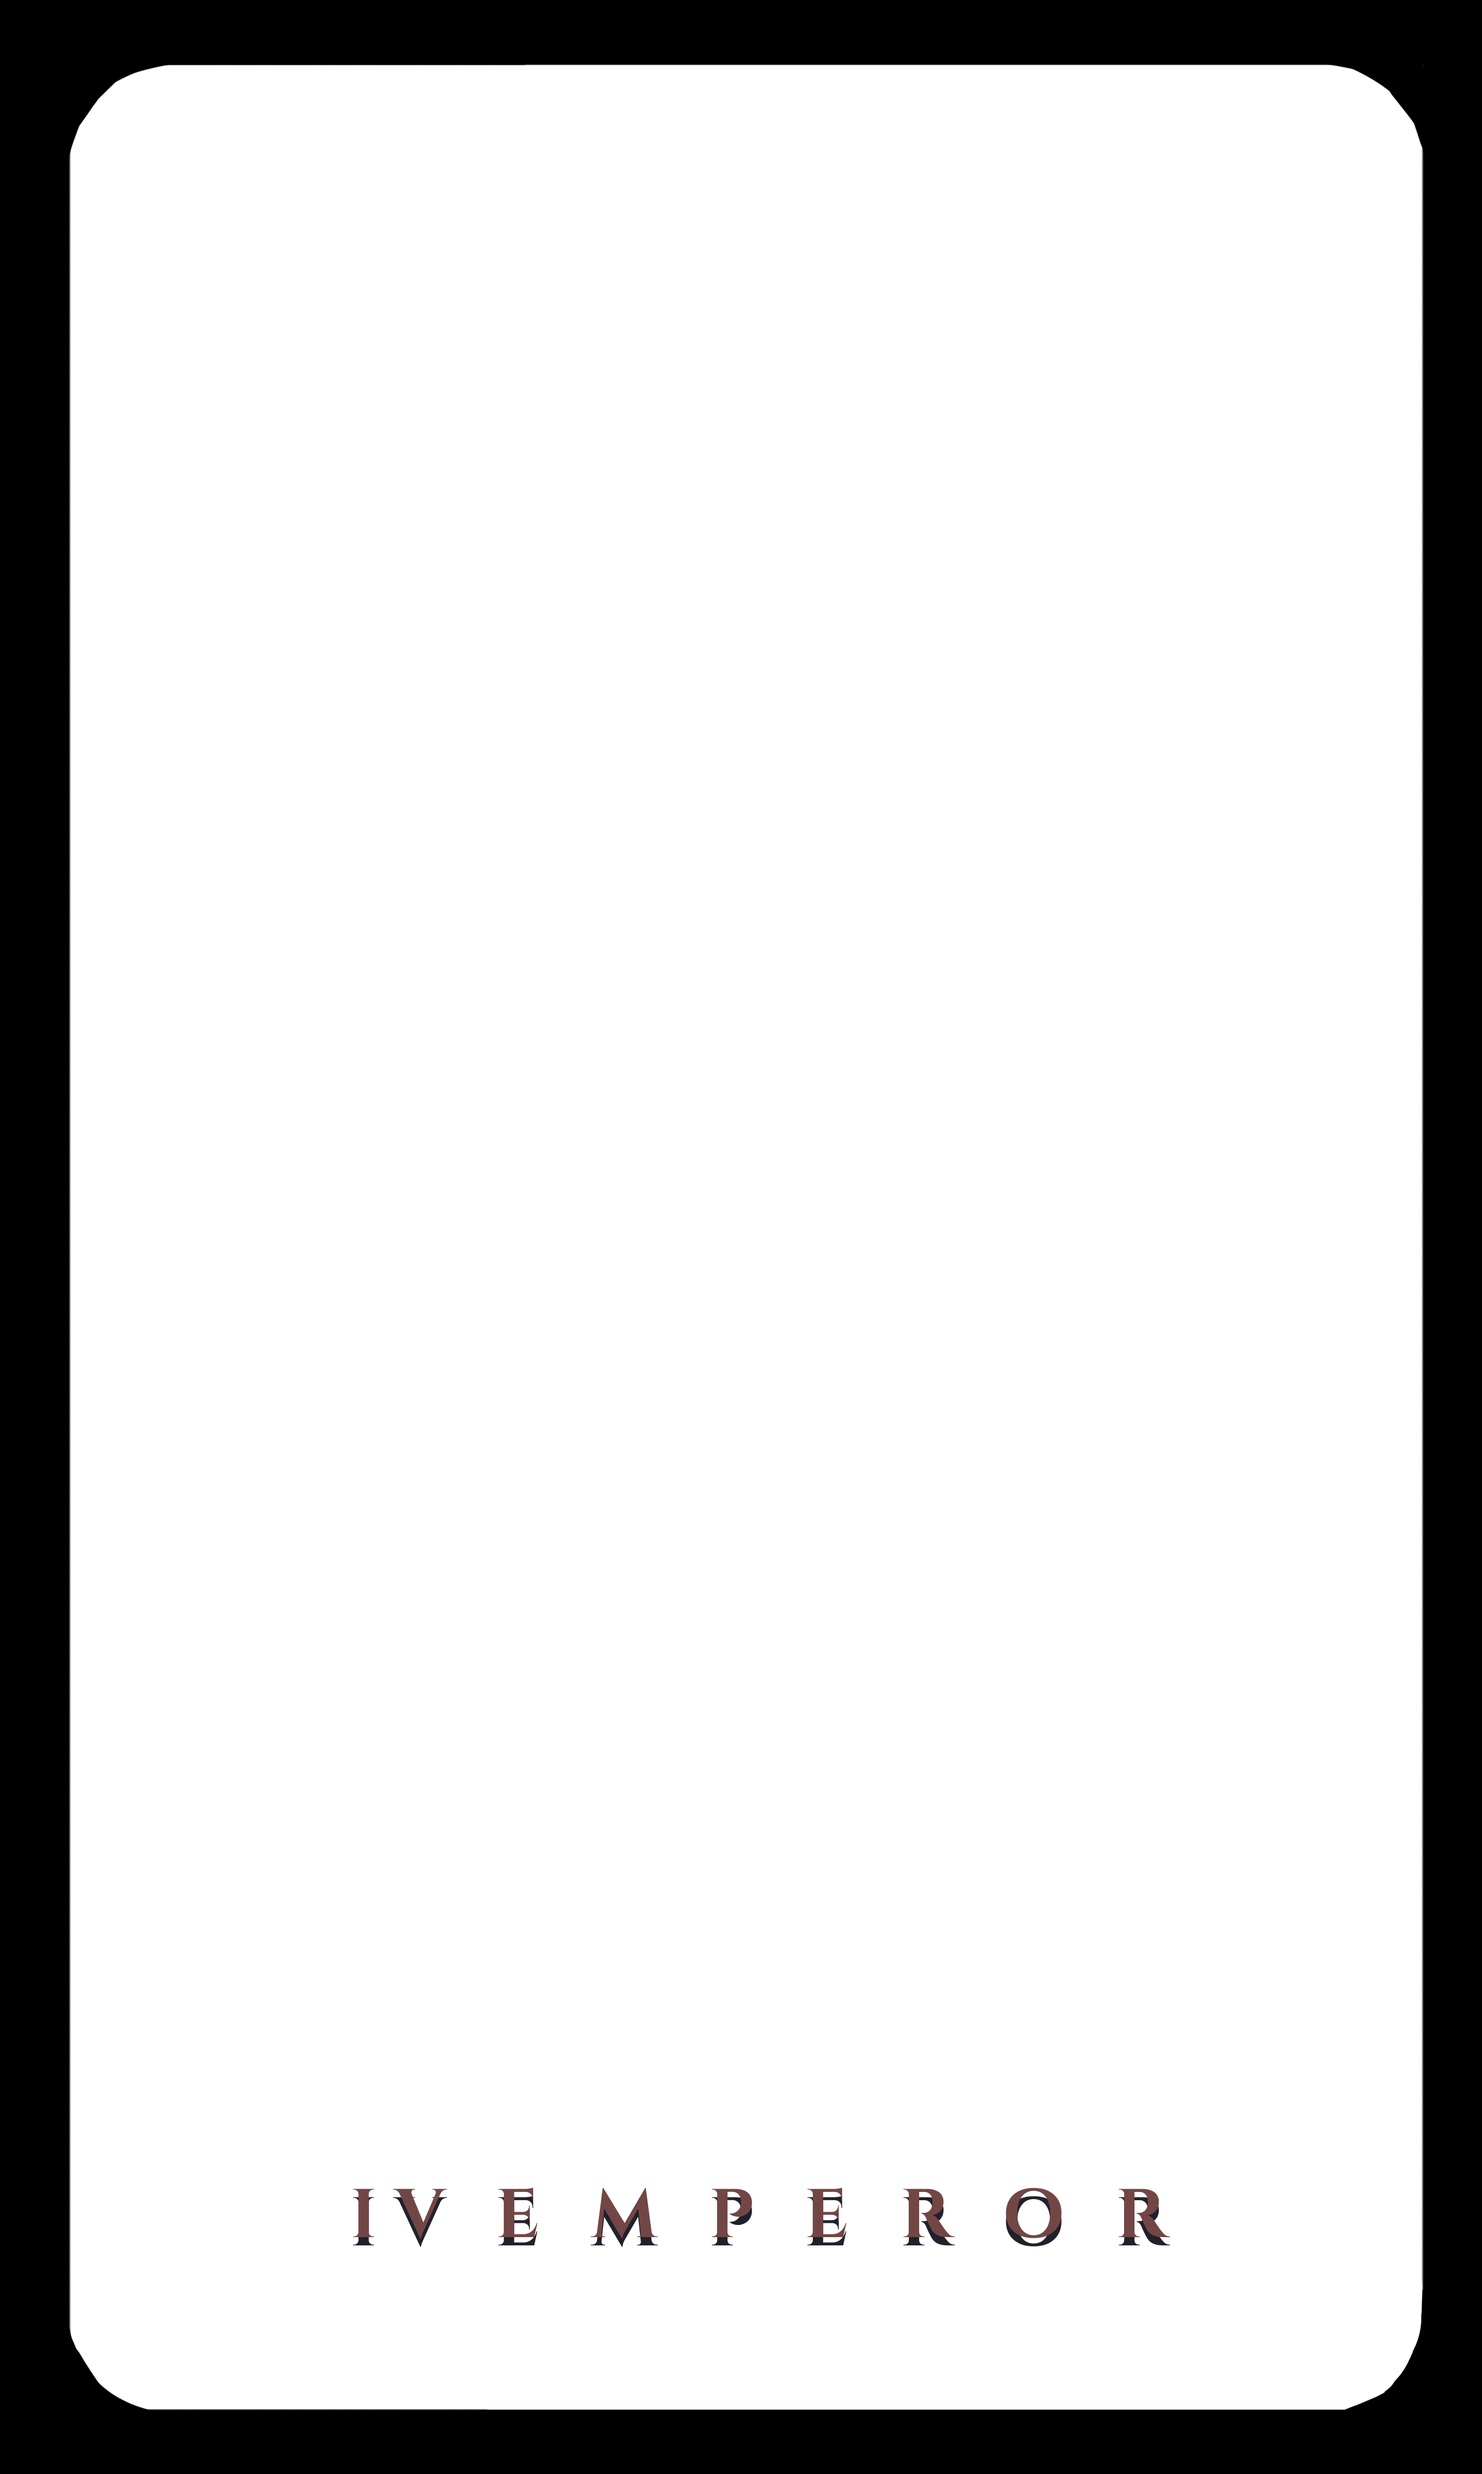
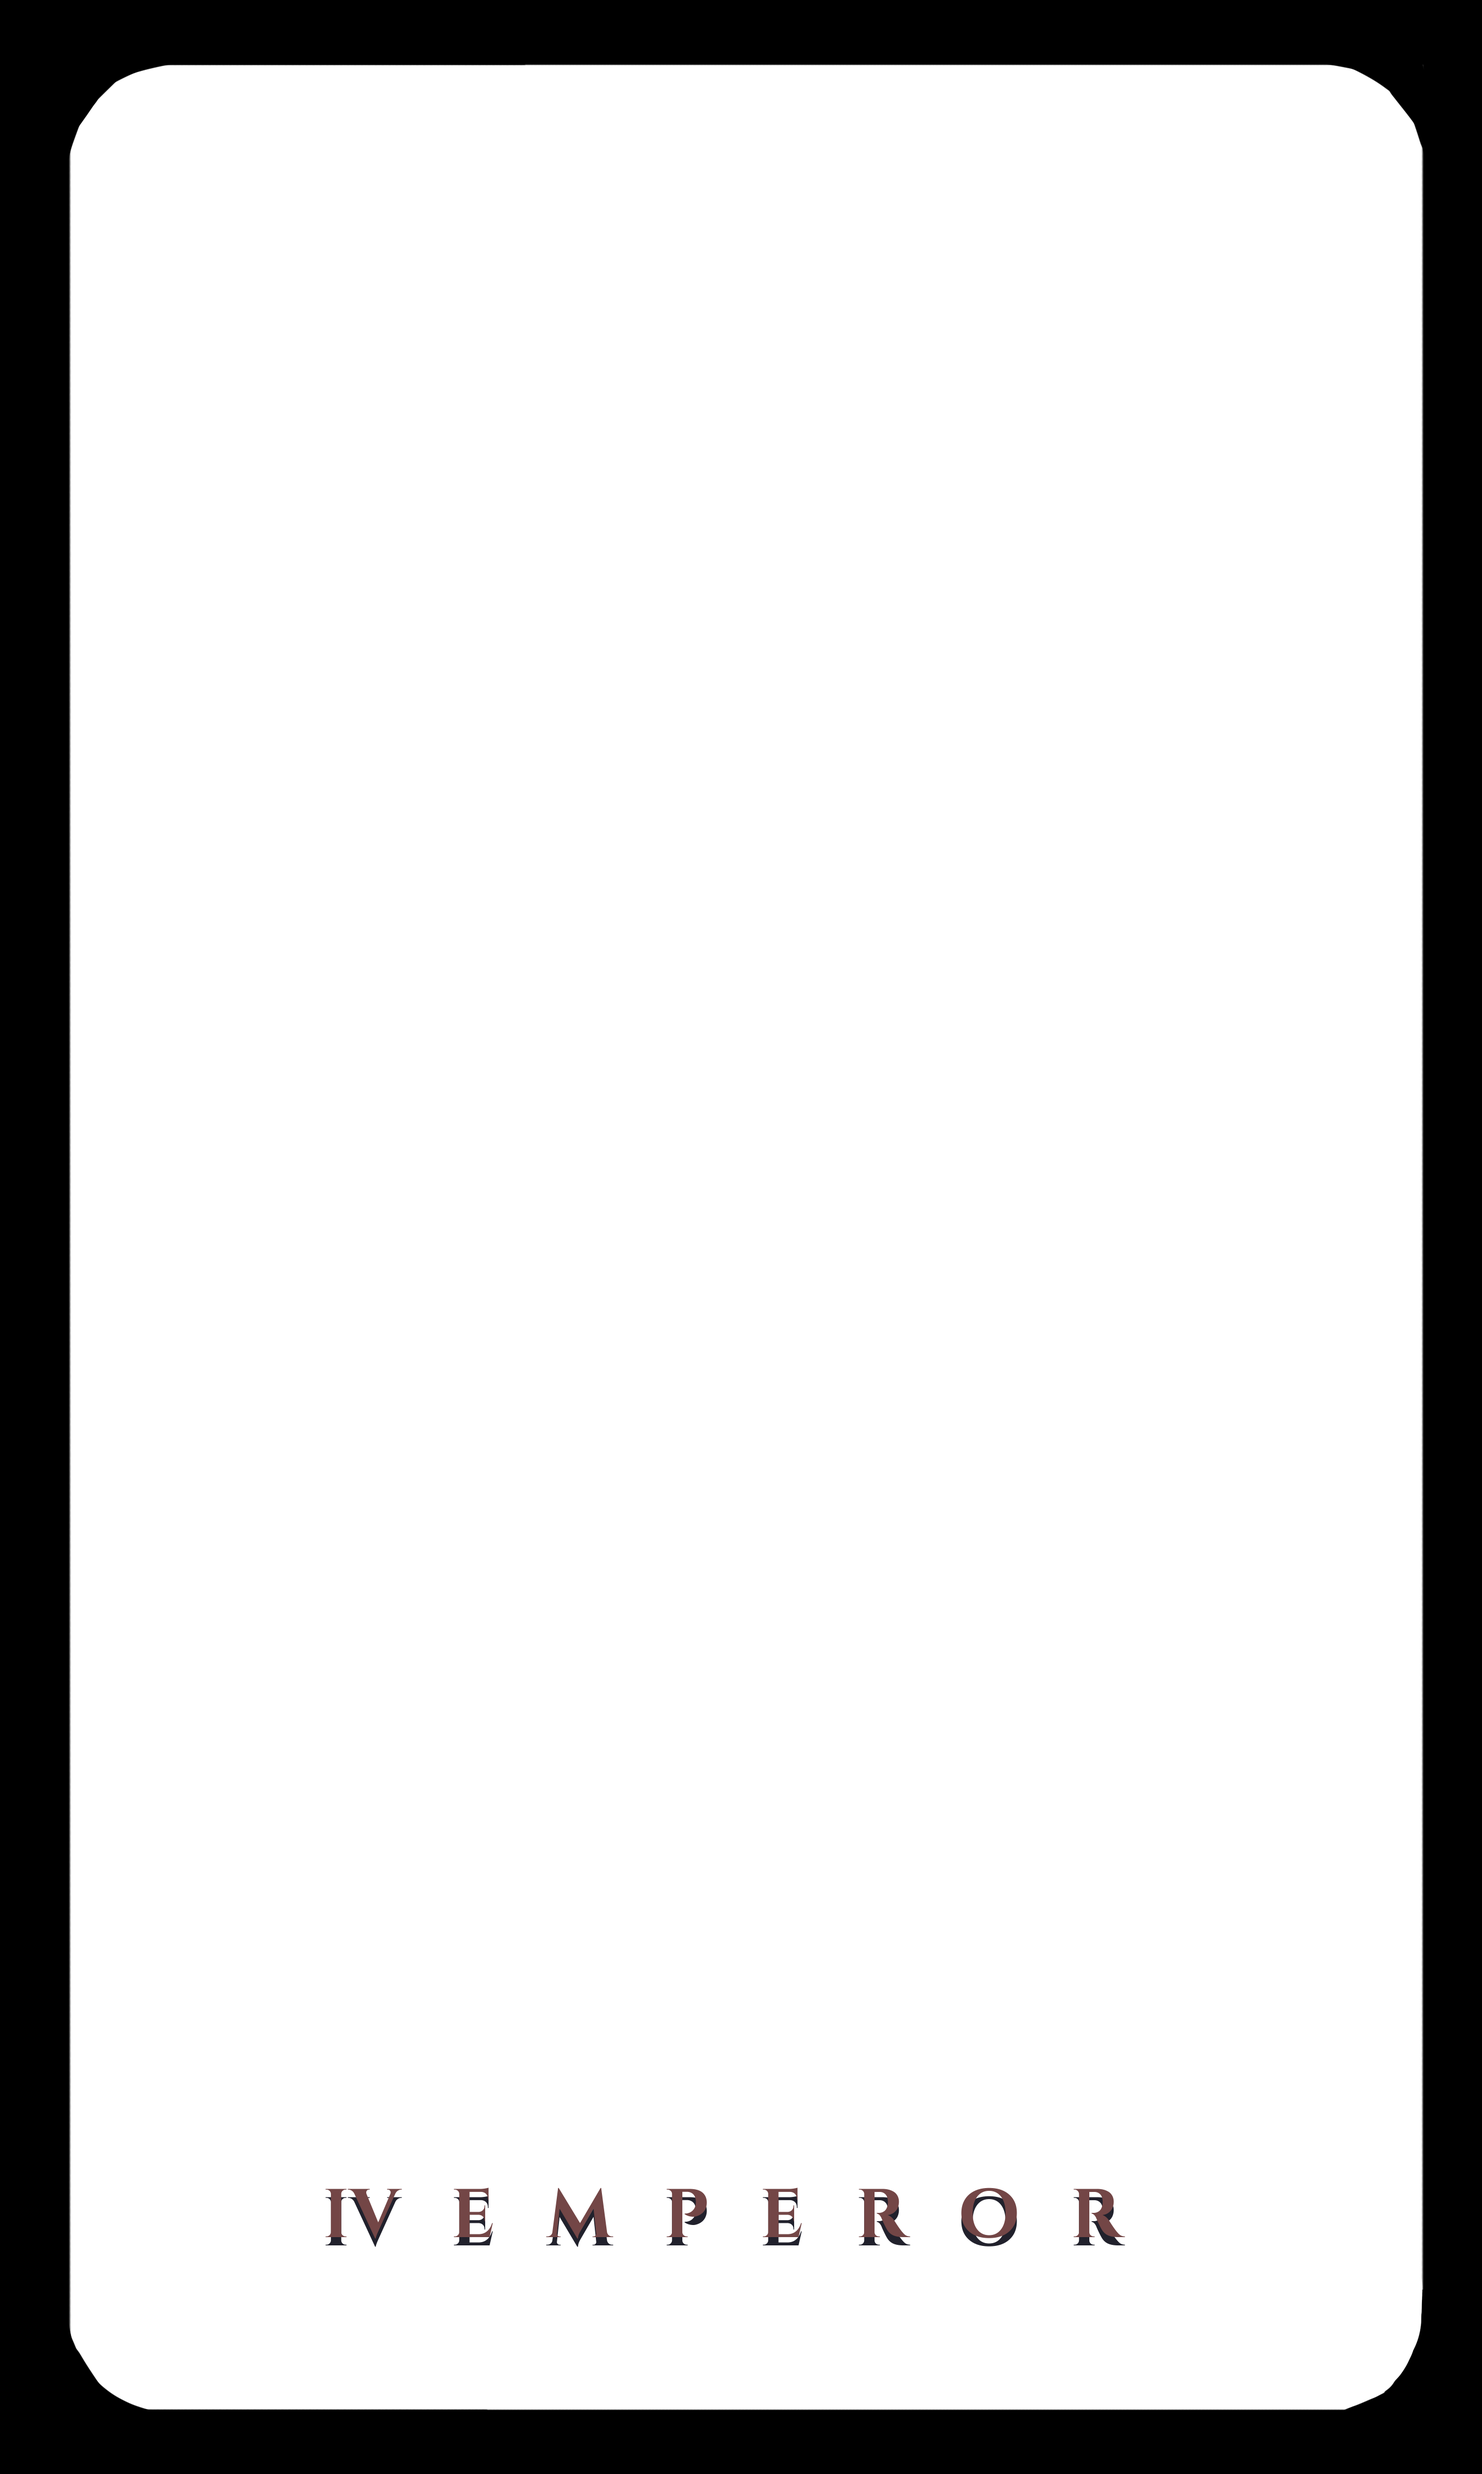
Update Moving Card & web asset borders
1. Character details page will show MovingCard when screen larger than 1280px, else will show static CharacterCard
2. Updated character border pngs

Changed region(s): [[0.2185, 0.8729, 0.7804, 0.904]]

diff --git a/app/loure-illumina/[characterSlug]/page.tsx b/app/loure-illumina/[characterSlug]/page.tsx
@@ -1,13 +1,10 @@
 import Container from "@/components/Container";
-import { getCharacterBySlug } from "@/sanity/sanity-utils";
-import Image from "next/image";
-import { PortableText } from "@portabletext/react";
+import CardDescription from "@/components/cards/CardDescription";
+import WhichCard from "@/components/cards/WhichCard";
 import LargeHeading from "@/components/ui/LargeHeading";
 import Paragraph from "@/components/ui/Paragraph";
-import MovingCard from "@/components/cards/MovingCard";
-import CardDescription from "@/components/cards/CardDescription";
-import CharacterCard from "@/components/cards/CharacterCard";
-// import CharacterCardMoving from "@/components/characters/CharacterCardMoving";
+import { getCharacterBySlug } from "@/sanity/sanity-utils";
+import Image from "next/image";
 
 interface IParams {
   characterSlug?: string;
@@ -15,6 +12,7 @@ interface IParams {
 
 const CharacterPage = async ({ params }: { params: IParams }) => {
   const character = await getCharacterBySlug(params.characterSlug as string);
+
   if (!character) {
     return <Container>Nothing in here</Container>;
   }
@@ -28,12 +26,11 @@ const CharacterPage = async ({ params }: { params: IParams }) => {
           <Paragraph className="max-w-2xl md:text-center md:text-2xl text-slate-700 dark:text-slate-300">
             {character.name}, {character.race}
           </Paragraph>
-          <div className="max-w-[1000px] grid grid-cols-1 md:grid-cols-2 gap-5 pt-0 md:pt-10">
+          <div className="w-full max-w-[1000px] grid grid-cols-1 md:grid-cols-2 gap-5 pt-0 md:pt-10">
             <div key={character._id} className="flex justify-center items-center pt-5">
               {character.charUrl ? (
                 <div>
-                  {/* <MovingCard data={character} width="250px" height="410px"></MovingCard> */}
-                  <CharacterCard data={character} width="250px" height="410px"></CharacterCard>
+                  <WhichCard character={character} />
                 </div>
               ) : character.url ? (
                 <Image width={250} height={410} className="object-contain rounded-2xl" alt="Character" src={character.url} />

diff --git a/hooks/useWindowSize.tsx b/hooks/useWindowSize.tsx
@@ -1,0 +1,44 @@
+"use client";
+
+import { useState, useEffect } from "react";
+
+interface WindowSizeProp {
+  width: number | undefined;
+  height: number | undefined;
+}
+
+// Hook
+const useWindowSize = () => {
+  // Initialize state with undefined width/height so server and client renders match
+  // Learn more here: https://joshwcomeau.com/react/the-perils-of-rehydration/
+  const [windowSize, setWindowSize] = useState<WindowSizeProp>({
+    width: undefined,
+    height: undefined,
+  });
+
+  // Handler to call on window resize
+  function handleResize() {
+    // Set window width/height to state
+    setWindowSize({
+      width: window.innerWidth,
+      height: window.innerHeight,
+    });
+  }
+
+  useEffect(() => {
+    // only execute all the code below in client side
+    if (typeof window !== "undefined") {
+      // Add event listener
+      window.addEventListener("resize", handleResize);
+
+      // Call handler right away so state gets updated with initial window size
+      handleResize();
+
+      // Remove event listener on cleanup
+      return () => window.removeEventListener("resize", handleResize);
+    }
+  }, []); // Empty array ensures that effect is only run on mount
+  return windowSize;
+};
+
+export default useWindowSize;

diff --git a/components/cards/CardDescription.tsx b/components/cards/CardDescription.tsx
@@ -13,11 +13,14 @@ interface CardDescriptionProps {
 
 const CardDescription: React.FC<CardDescriptionProps> = ({ data, height = "600px" }) => {
   let pixel_h = `h-[${height}]`;
+  pixel_h = `sm:h-[600px]`;
   return (
-    <div key={data._id} className={`py-5 text-black dark:text-white text-justify leading-loose relative ${pixel_h} w-[300px] md:w-[500px]`}>
-      <SimpleBar forceVisible="y" autoHide={false} className={`leading-loose ${pixel_h} pr-5`}>
-        <PortableText value={data.description} />
-      </SimpleBar>
+    <div className="flex items-center justify-center">
+      <div key={data._id} className={`py-5 text-black dark:text-white text-justify leading-loose relative ${pixel_h} w-full max-w-[500px]`}>
+        <SimpleBar forceVisible="y" autoHide={false} className={`leading-loose ${pixel_h} w-full pr-5`}>
+          <PortableText value={data.description} />
+        </SimpleBar>
+      </div>
     </div>
   );
 };

diff --git a/components/cards/MovingCard.tsx b/components/cards/MovingCard.tsx
@@ -144,11 +144,13 @@ const MovingCard: React.FC<MovingCardProps> = ({ data, navigate = false, width =
   let cdStyle = 0;
   let curStyle = 2;
   let change = false;
+  const twWidth = `w-[250px]`;
+  const twHeight = `h-[410px]`;
 
   const movingCard = (
     <div className={"relative max-w-xs overflow-hidden rounded-3xl shadow-lg group bg-black " + className}>
       <div className="bg-transparent absolute inset-0 top-0 left-0 z-20 w-full h-full" ref={CardRef} onMouseMove={trigger} onMouseLeave={resetMovingCard}></div>
-      <animated.div className={`w-[${width}] h-[${height}]`} style={style1}>
+      <animated.div className={`${twWidth} ${twHeight}`} style={style1}>
         <Image src={data.bgUrl} fill alt="bg" className="w-full h-full object-contain" sizes={"50vw"} />
       </animated.div>
       <animated.div className={`absolute inset-0 top-0 left-0 w-full h-full`} style={style2}>

diff --git a/components/cards/WhichCard.tsx b/components/cards/WhichCard.tsx
@@ -1,0 +1,25 @@
+"use client";
+
+import useWindowSize from "@/hooks/useWindowSize";
+import { Character } from "@/types/Character";
+import React from "react";
+import MovingCard from "./MovingCard";
+import CharacterCard from "./CharacterCard";
+
+interface CharacterCardProps {
+  character: Character;
+}
+const WhichCard: React.FC<CharacterCardProps> = ({ character }) => {
+  const windowSize = useWindowSize();
+  return (
+    <div>
+      {windowSize.width && windowSize.width >= 1280 ? (
+        <MovingCard data={character} width="250px" height="410px"></MovingCard>
+      ) : (
+        <CharacterCard data={character} width="250px" height="410px"></CharacterCard>
+      )}
+    </div>
+  );
+};
+
+export default WhichCard;

diff --git a/components/cards/CharacterCard.tsx b/components/cards/CharacterCard.tsx
@@ -47,10 +47,12 @@ const CharacterCard: React.FC<CharacterCardProps> = ({ data, navigate = false, w
   let cdStyle = 0;
   let curStyle = 2;
   let change = false;
+  const twWidth = `w-[250px]`;
+  const twHeight = `h-[410px]`;
 
   const characterCard = (
     <div className={"relative max-w-xs overflow-hidden rounded-3xl shadow-lg group bg-black " + className}>
-      <div className={`w-[${width}] h-[${height}]`}>
+      <div className={`${twWidth} ${twHeight}`}>
         <Image src={data.bgUrl} fill alt="bg" className="w-full h-full object-contain" sizes={"50vw"} />
       </div>
       <div className={`absolute inset-0 top-0 left-0 w-full h-full`}>
